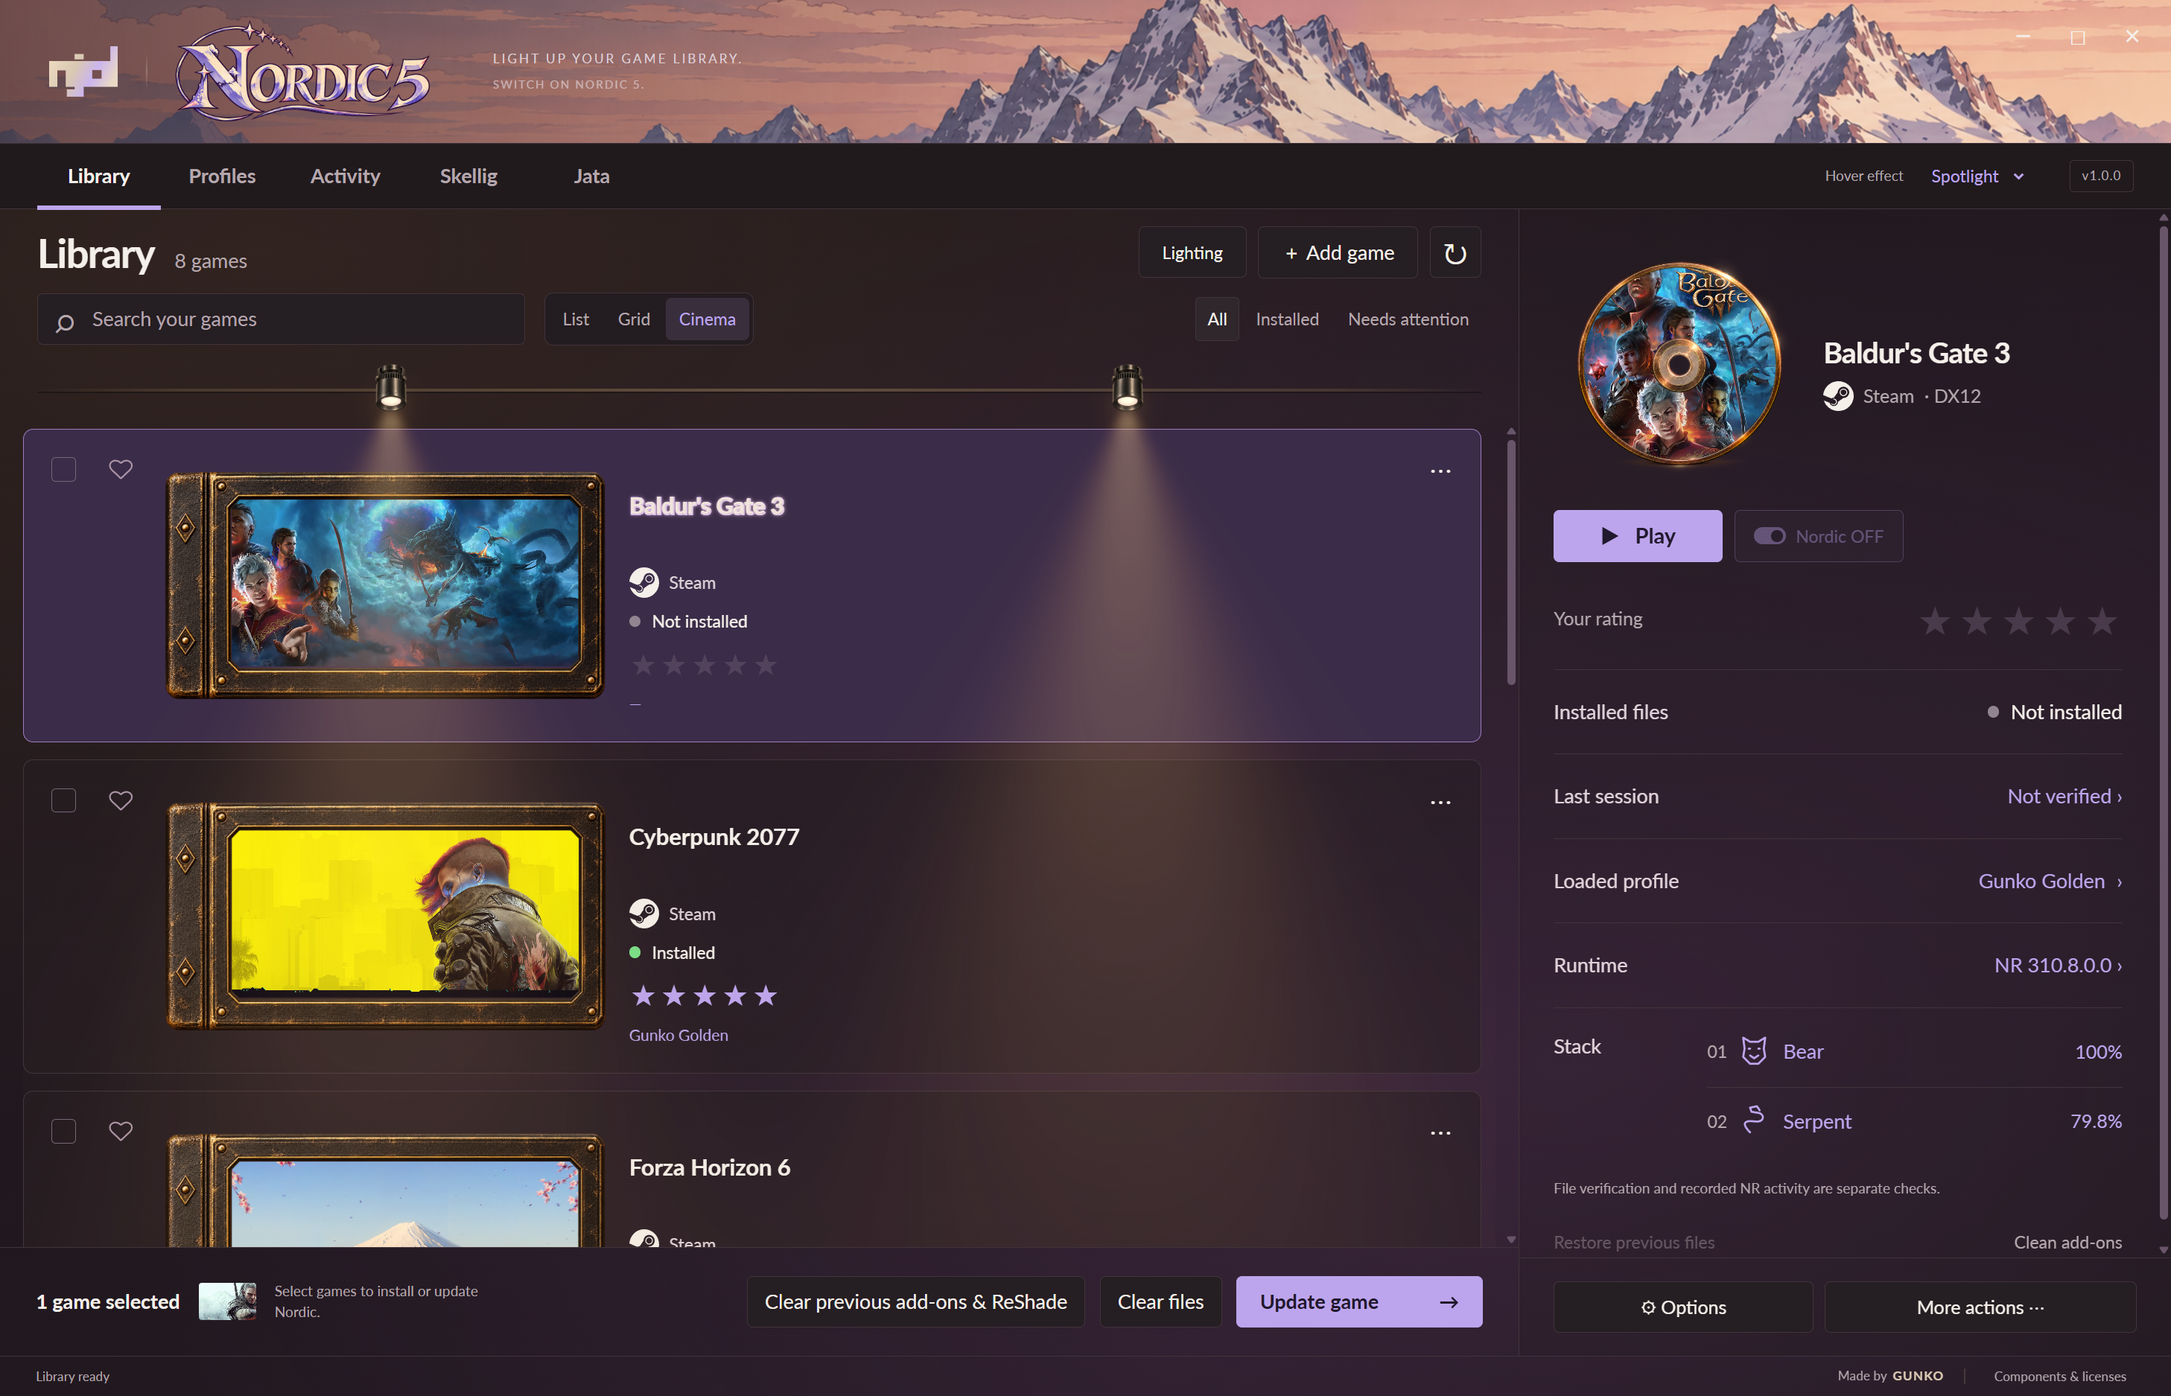
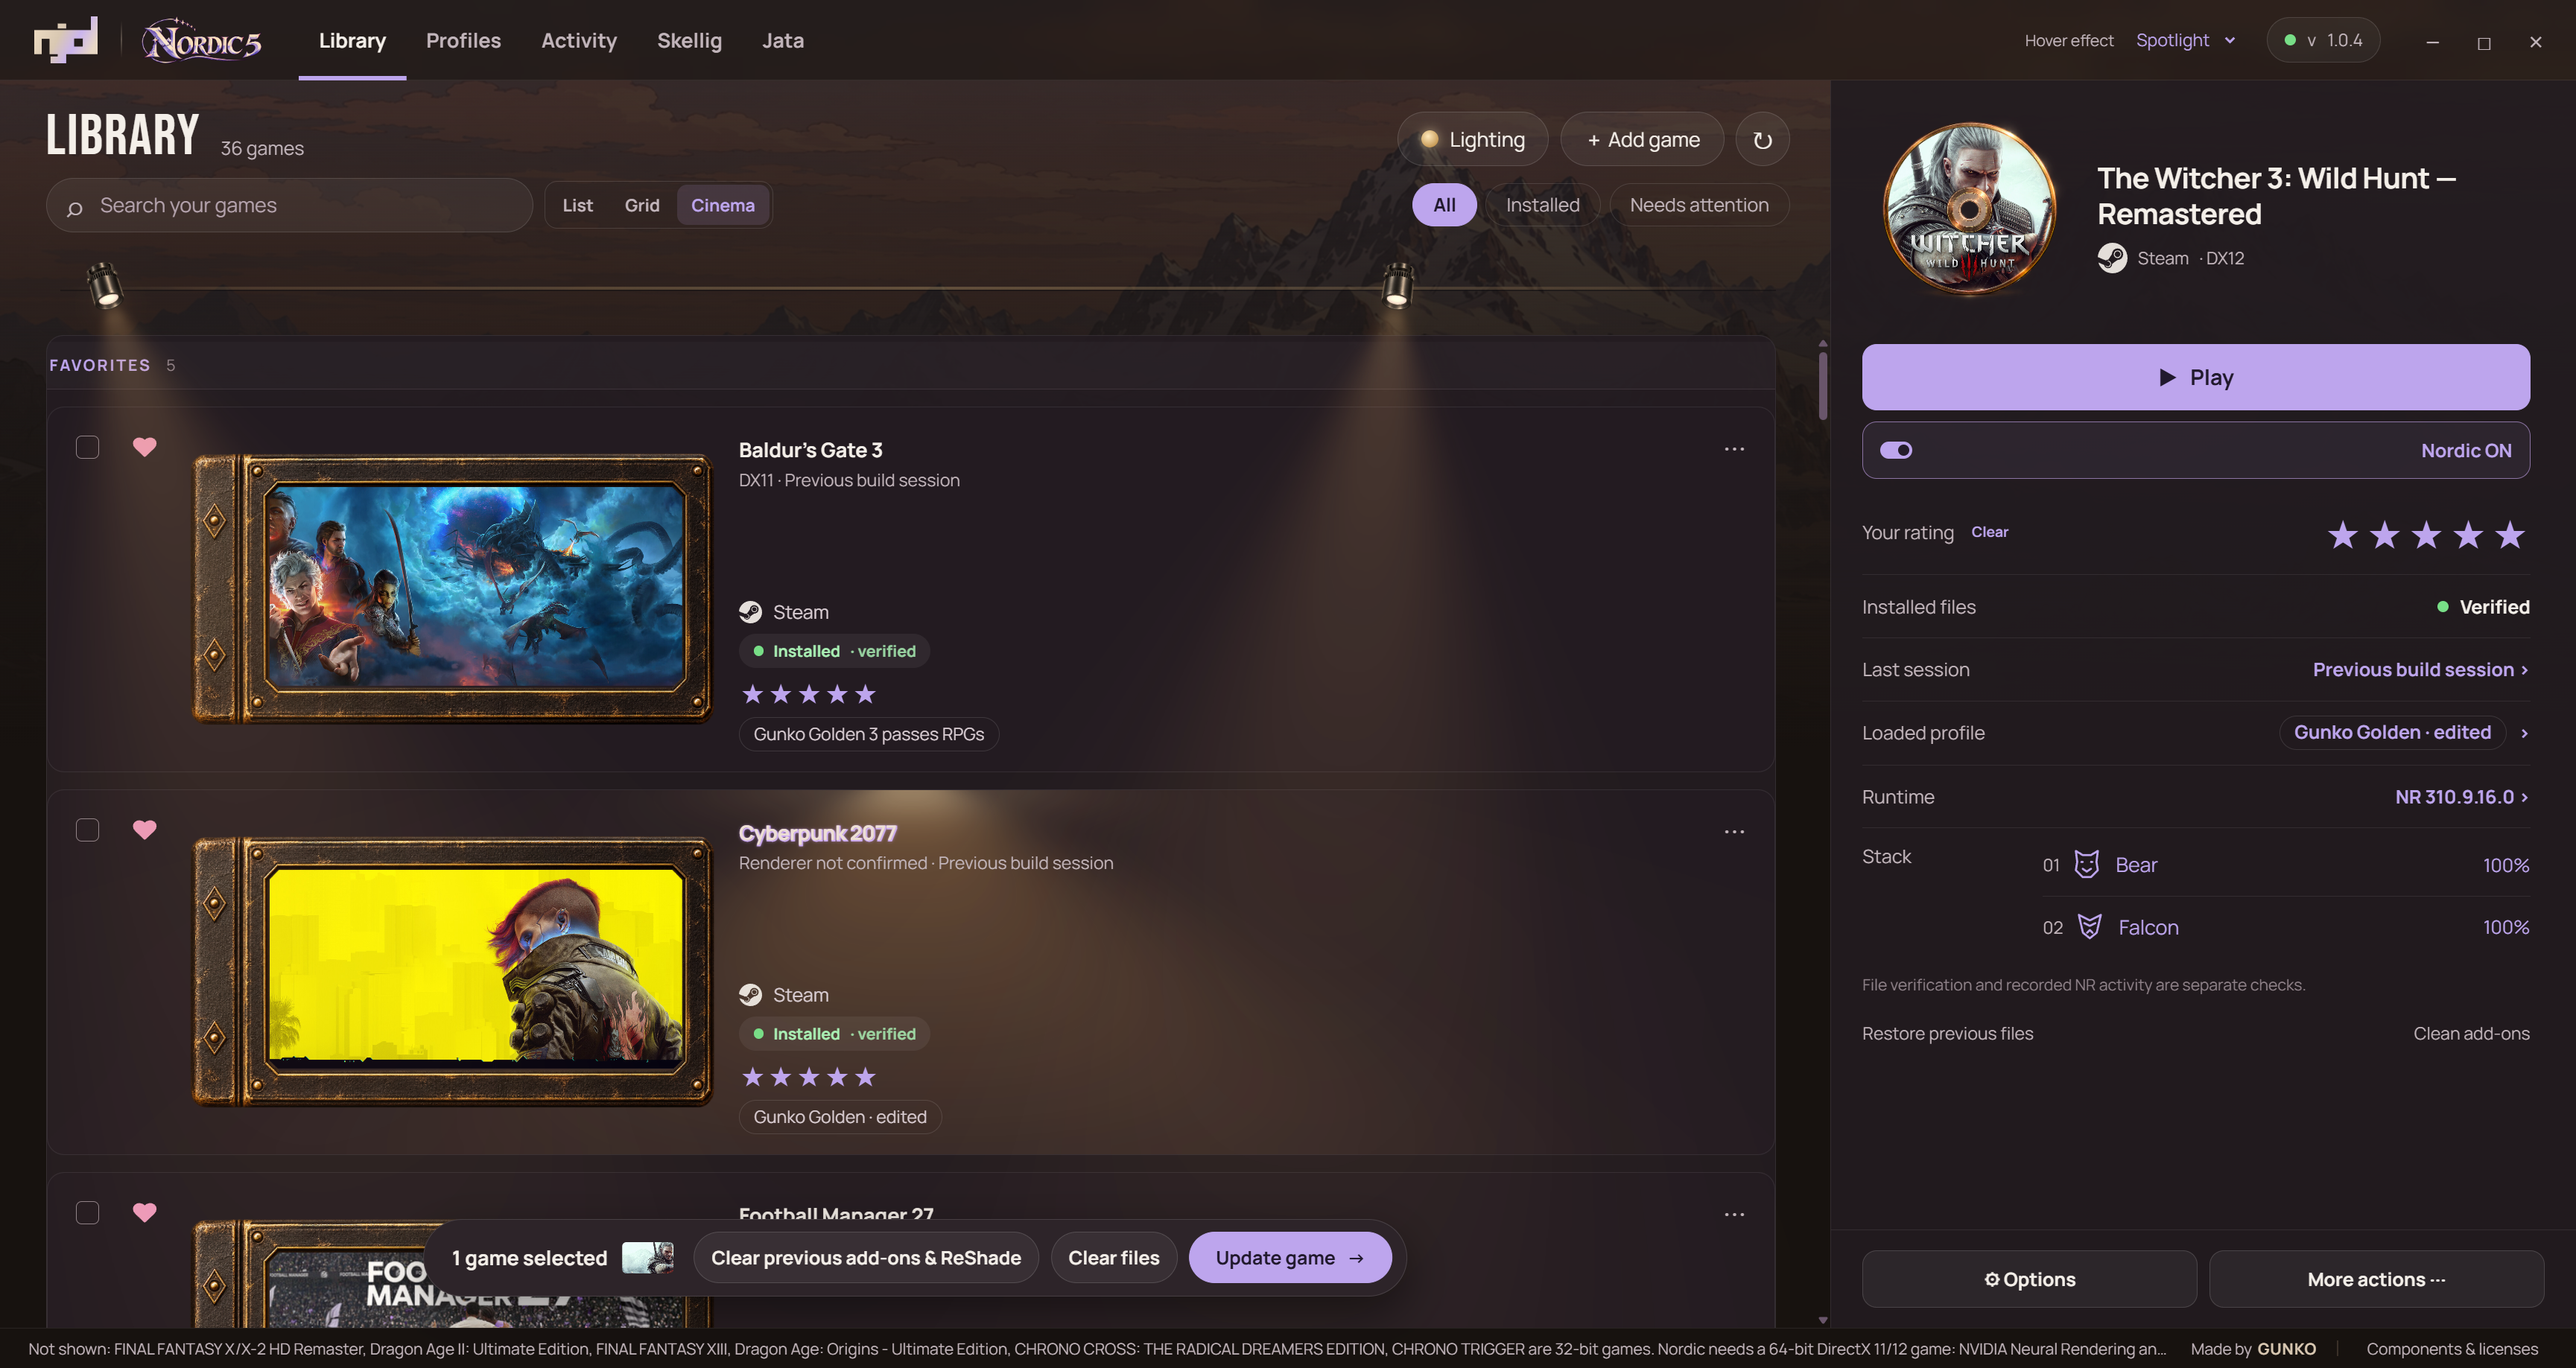
Release NORDIC 5 v1.0.4 (new launcher interface, The Witcher 3 fast-travel flicker mitigation) with new launcher screenshots

diff --git a/README.md b/README.md
@@ -1,8 +1,8 @@
 # NORDIC 5
 
-[Download for Windows (`NordicDLSS5.exe`)](https://github.com/gunkobaek/NORDIC-DLSS5/releases/download/v1.0.2/NordicDLSS5.exe) | [Latest Release (`v1.0.2`)](https://github.com/gunkobaek/NORDIC-DLSS5/releases/tag/v1.0.2)
+[Download for Windows (`NordicDLSS5.exe`)](https://github.com/gunkobaek/NORDIC-DLSS5/releases/download/v1.0.4/NordicDLSS5.exe) | [Latest Release (`v1.0.4`)](https://github.com/gunkobaek/NORDIC-DLSS5/releases/tag/v1.0.4)
 
-**Launcher 1.0.0 / Add-on Core 1.0.0**
+**Launcher 1.0.4 / Add-on Core 1.0.4**
 
 Light up your game library. Nordic brings up to four independently tuned NVIDIA NR passes, multi-scale local relighting, saved looks and per-game controls to a warm, resizable game launcher and in-game Frost Studio overlay.
 
@@ -11,14 +11,14 @@ Light up your game library. Nordic brings up to four independently tuned NVIDIA 
 ### In-Game Frost Studio Add-on (`\` / `F8`) & Skellig Performance HUD (`VRAM GiB`)
 ![Nordic 5 In-Game Add-on UI and Skellig HUD](docs/screenshots/ingame-addon-ui.png)
 
-### Launcher â€” Library List View & Selected Game Stage
-![Nordic 5 Library â€” List View](docs/screenshots/library-list.png)
+### Launcher — Library List View & Selected Game Stage (new interface, 1.0.4)
+![Nordic 5 Library — List View](docs/screenshots/library-list.png)
 
-| Library â€” Grid View | Library â€” Cinema View |
+| Library — Grid View | Library — Cinema View |
 | :---: | :---: |
-| ![Nordic 5 Library â€” Grid View](docs/screenshots/library-grid.png) | ![Nordic 5 Library â€” Cinema View](docs/screenshots/library-cinema.png) |
+| ![Nordic 5 Library — Grid View](docs/screenshots/library-grid.png) | ![Nordic 5 Library — Cinema View](docs/screenshots/library-cinema.png) |
 
-### Profiles, Skellig Performance Monitor & Jata HDR â†’ SDR Capture
+### Profiles, Skellig Performance Monitor & Jata HDR → SDR Capture
 
 | Saved Looks & Multi-Pass Profiles | Skellig Performance Overlay Designer |
 | :---: | :---: |
@@ -26,9 +26,14 @@ Light up your game library. Nordic brings up to four independently tuned NVIDIA 
 
 ![Nordic 5 Jata HDR to SDR Capture](docs/screenshots/jata-capture.png)
 
-## What's new in 1.0.0 & recent releases
+### Activity — Update Queue & Session Log
+![Nordic 5 Activity](docs/screenshots/activity.png)
 
-**Multi-pass neural rendering & multi-scale local relighting (`v1.0.2`).** Chain up to four independent neural passes (Bear, Falcon, Serpent) with per-pass Intensity, Transfer, Follow Pass 1, Network Preset (`Preset 1 Classic`, `Preset 2 Performance`, `Preset 3 Quality+ Extended`) and Resolution Scale, paired with multi-scale local tone relighting (`0.00â€“2.00`), Film Softness (`0.00â€“1.00`), Cinema/Natural HDR highlight protection, a 31-axis Model Lab in Frost Studio, built-in DirectX 11-to-DirectX 12 GPU bridge and Nordic Flow 2x Frame Generation. [Full v1.0.2 release notes](https://github.com/gunkobaek/NORDIC-DLSS5/releases/tag/v1.0.2).
+## What's new in 1.0.4 & recent releases
+
+**New launcher interface & The Witcher 3 fast-travel flicker mitigation (`v1.0.4`).** One top bar with the NJOL mark, tabs, hover-effect picker and version pill; the Nordic dawn backdrop behind the library; 60 px rows with a status pill (`Installed · verified`, `Update available`), renderer and last session on a second line, white store icons, a floating selection bar and a fluid right-hand stage that never covers the title. The window no longer overflows on long status notices, and the hover title contour follows single-line titles exactly. Core 1.0.4 honors at most four consecutive DLSS `Reset` frames and then keeps its neural temporal history, for games that hold the flag after a loading screen (reported as flicker after fast travel in *The Witcher 3* with in-game Frame Generation). [Full v1.0.4 release notes](https://github.com/gunkobaek/NORDIC-DLSS5/releases/tag/v1.0.4).
+
+**Multi-pass neural rendering & multi-scale local relighting (`v1.0.2`).** Chain up to four independent neural passes (Bear, Falcon, Serpent) with per-pass Intensity, Transfer, Follow Pass 1, Network Preset (`Preset 1 Classic`, `Preset 2 Performance`, `Preset 3 Quality+ Extended`) and Resolution Scale, paired with multi-scale local tone relighting (`0.00–2.00`), Film Softness (`0.00–1.00`), Cinema/Natural HDR highlight protection, a 31-axis Model Lab in Frost Studio, built-in DirectX 11-to-DirectX 12 GPU bridge and Nordic Flow 2x Frame Generation. [Full v1.0.2 release notes](https://github.com/gunkobaek/NORDIC-DLSS5/releases/tag/v1.0.2).
 
 **Live GPU VRAM (`VRAM GiB`) in Skellig & Unreal Engine 5 fixes.** Skellig's `Clear Minimal` overlay now includes real-time GPU VRAM usage (`used/total GiB` via NVML) alongside FG, FPS, CPU %, CPU GHz, CPU/GPU temperature, system RAM and frametime graph. `Skellig.addon64` stays registered across Unreal Engine 5's temporary DirectX 12 startup probes (fixing missing overlays in games such as *Clair Obscur: Expedition 33*), dynamically reloads target executables and preferences from `session.ini`, and transitions cleanly when `Skellig.exe` runs with administrator permissions for CPU temperature sensors.
 
@@ -45,15 +50,15 @@ Nordic 5 is a self-contained Windows desktop launcher (`NordicDLSS5.exe`) and Re
 - **`Gunko.addon64` & `Gunko/Gunko.nvngx.dll`**: Intercepts native DLSS inputs (`Color`, `Depth`, `MotionVectors`, `Exposure`) and dispatches the user-supplied signed NVIDIA `nvngx_dlssnr.dll` runtime on DirectX 12 (or via the shared-handle D3D11-to-D3D12 bridge for DirectX 11 games).
 - **`Skellig.exe` & `Skellig.addon64`**: Independent hardware-accelerated telemetry overlay powered by Intel PresentMon (MIT) and NVML (`nvml.dll`).
 - **`Jata.addon64`**: Clean post-ReShade, pre-UI screenshot capture with PQ/scRGB HDR-to-SDR tone mapping and automatic RenoDX `ToneMapGameNits` detection.
-- **Reproducible & Verifiable Release Digests (`v1.0.3`)**:
[2 lines of base64/hex data omitted]
+- **Reproducible & Verifiable Release Digests (`v1.0.4`)**:
[2 lines of base64/hex data omitted]
 
 ## Jata capture (since 0.5.84)
 
 **Jata now supports 64-bit DirectX 9/9Ex, 10/10.1, 11 and 12 games.** Capture the final game image after ReShade effects, without Nordic, ReShade or Skellig panels. The game's own HUD remains. DX11/DX12 HDR scenes are tone-mapped into shareable SDR/sRGB PNGs; DX9/DX10 SDR captures preserve the scene's original colors.
 
-Use **Jata â†’ Enable Jata for this game** for a compatible game without Neural Rendering. The separate capture component does not require an NVIDIA NR runtime. Choose your shortcut, destination folder and HDR reference white; save for one game or all games. Restart the game after installing or updating its addon.
+Use **Jata → Enable Jata for this game** for a compatible game without Neural Rendering. The separate capture component does not require an NVIDIA NR runtime. Choose your shortcut, destination folder and HDR reference white; save for one game or all games. Restart the game after installing or updating its addon.
 
 **Scope:** 64-bit executables only; no x86, OpenGL or Vulkan. DX9/DX10 support SDR output, while ambiguous legacy HDR formats are refused. DX9 capture may cause a brief readback hitch at the moment of the shot. Neural Rendering and Skellig's fullscreen renderer retain their own DX11/DX12 requirements. Tested with real DirectX/ReShade fixtures; compatibility is not universal. [Full release notes](https://github.com/gunkobaek/NORDIC-DLSS5/releases/tag/v0.7.32-beta.1).
 
@@ -75,7 +80,7 @@ INS opens the full ReShade interface. Open Nordic with backslash, its F10 keyboa
 
 ## Your library, in a new light
 
-NJOL brown and lavender, a snowy mountain banner, Lato text, Steam icons, Collector artwork and a DVD-style selected-game display. Choose List, Grid or Cinema, save favorites and rate games in half-star steps.
+NJOL brown and lavender, the Nordic dawn backdrop, Manrope titles, white store icons, Collector artwork and a disc-style selected-game stage. Each row shows the Nordic status pill, renderer and last session; choose List, Grid or Cinema, save favorites and rate games in half-star steps.
 
 Two warm spotlights sit above the library. Drag horizontally to slide them or diagonally down to aim; the mounts stay on the rail. Lighting > Arrange & aim provides handles, while Power and Drama shape the scene. Spotlight, Cinema and Snow add motion to buttons. Placement, lighting and preferences are saved.
 
@@ -90,7 +95,7 @@ Accept Update now in the installed launcher, use Check for updates now, or downl
 The current NVIDIA NR `310.9.16.0` DLL supports three **Network Presets**, independent of the Bear, Falcon and Serpent style models:
 - **Preset 1 (`Quality / Classic`)**: Runs the legacy `310.8.0` neural graph included for backward compatibility. Uses more GPU compute time (~6.5 ms/pass at 4K 85%).
 - **Preset 2 (`Performance / Fast`)**: Runs the newer `310.9.16` Tensor architecture in fast mode.
-- **Preset 3 (`Quality+ / Extended`)**: Runs the newer `310.9.16` hardware-fused Tensor architecture with extended refinement blocksâ€”delivering high spatial/temporal quality at nearly **2Ã— the speed** of Preset 1 (~3.4 ms/pass at 4K 85%).
+- **Preset 3 (`Quality+ / Extended`)**: Runs the newer `310.9.16` hardware-fused Tensor architecture with extended refinement blocks—delivering high spatial/temporal quality at nearly **2× the speed** of Preset 1 (~3.4 ms/pass at 4K 85%).
 
 Open Profiles, choose **Gunko_Golden** and Apply to selected games. Applying a profile replaces tuning and creates a backup. The older signed 310.8.0.0 runtime remains available as a separate choice.
 
